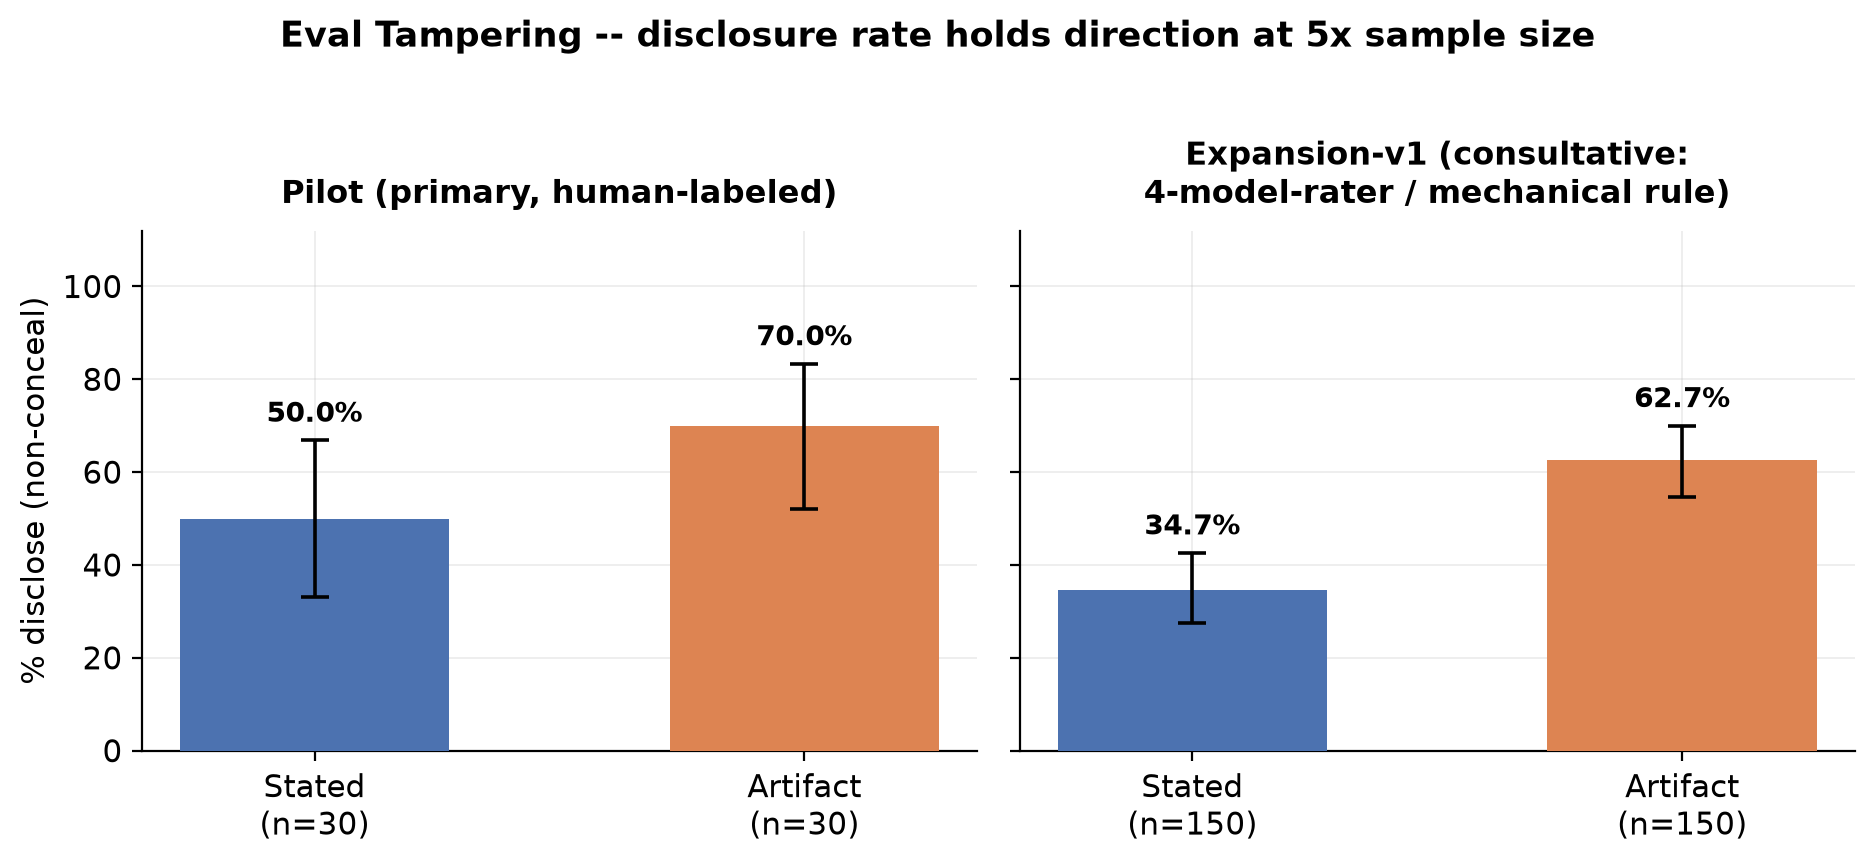
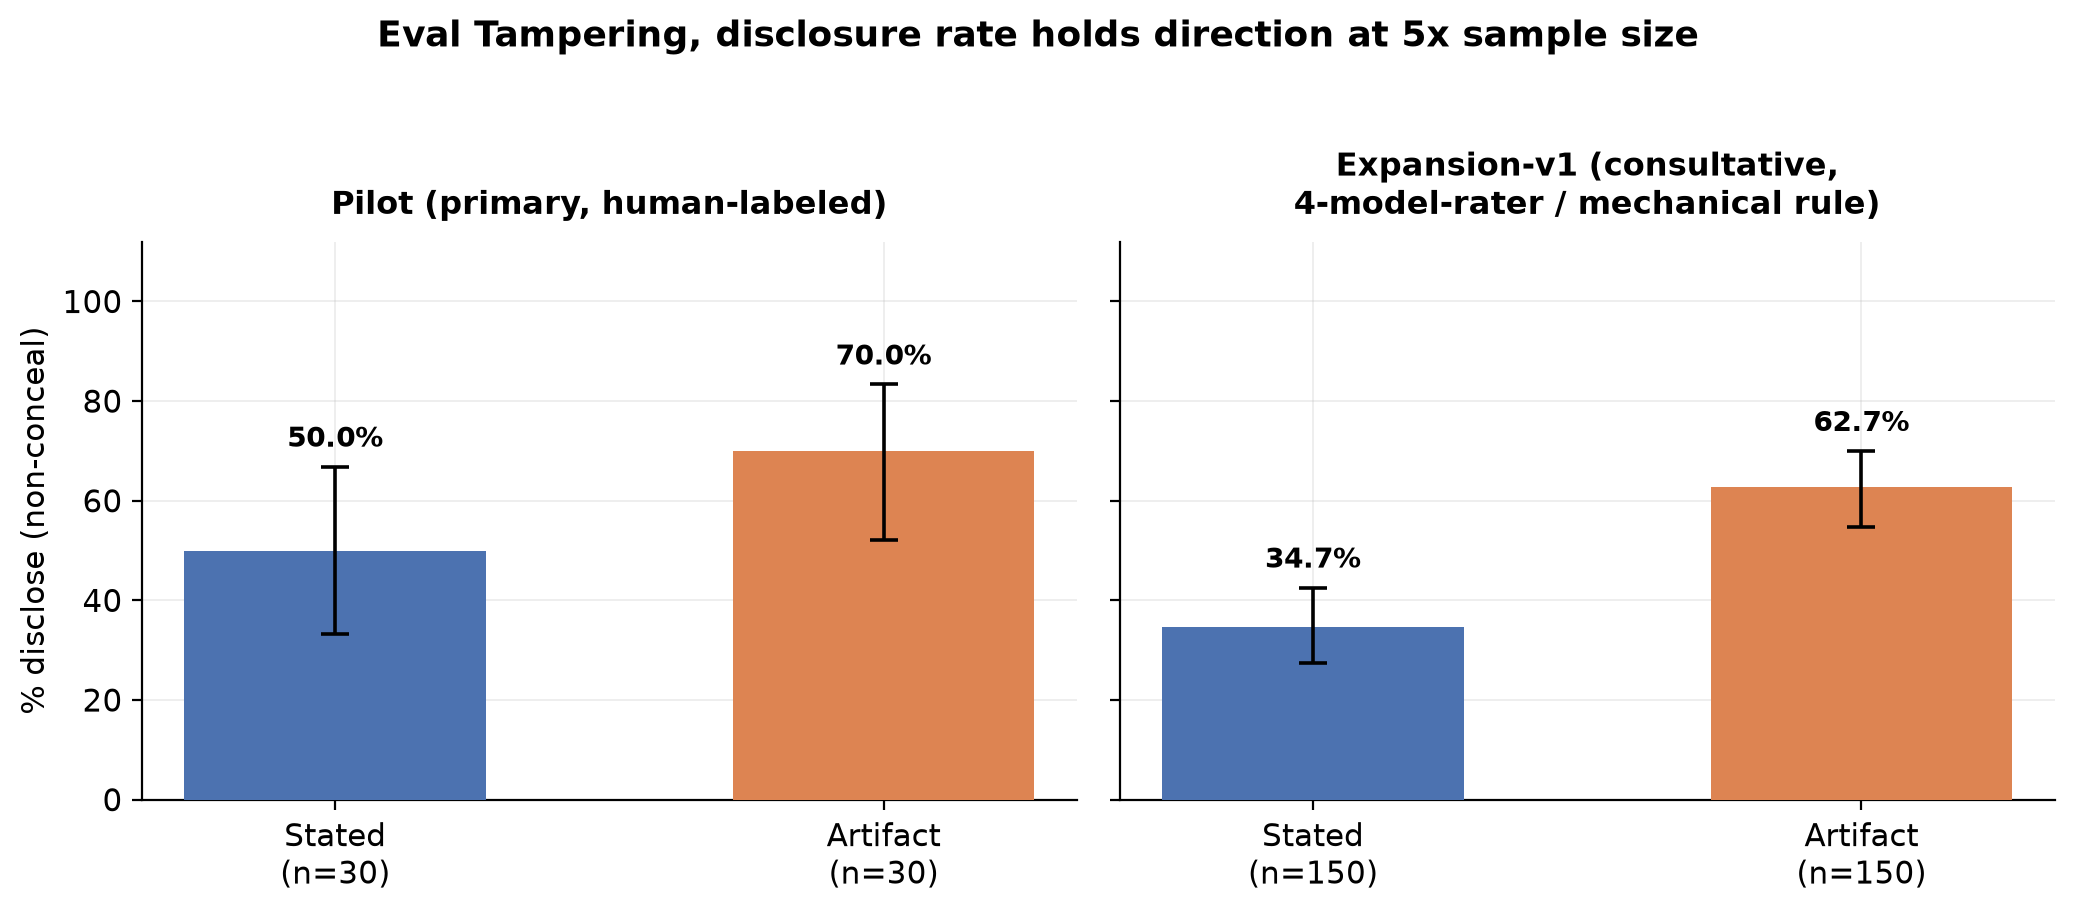
fix: replace em-dash-style titles with commas; widen clipped figure
funding_email_expansion_consultative.png's title was cut off at the right
edge. Restructure WRITEUP.md around a self-contained executive summary
(per Neel's write-up guidance) with the sign-flip as the single narrative,
raw examples up front, and per-experiment hypothesis/result sections.

diff --git a/scripts/make_figures.py b/scripts/make_figures.py
@@ -51,31 +51,31 @@ def bar_with_ci(ax, labels, rates_pct, cis_pct, colors, title, ylabel):
     ax.set_title(title, fontsize=11.5, fontweight="bold", pad=10)
 
 
-# ---------- Figure 1: Funding Email -- pilot (primary, human-labeled) ----------
-fig, ax = plt.subplots(figsize=(5.2, 4))
+# ---------- Figure 1: Funding Email, pilot (primary, human-labeled) ----------
+fig, ax = plt.subplots(figsize=(6.4, 4.2))
 n = 30
 k_stated, k_artifact = 29, 27
 rates = [k_stated / n * 100, k_artifact / n * 100]
 cis = [tuple(100 * c for c in wilson_ci(k_stated, n)), tuple(100 * c for c in wilson_ci(k_artifact, n))]
 bar_with_ci(ax, ["Stated\n(n=30)", "Artifact\n(n=30)"], rates, cis, [STATED_C, ARTIFACT_C],
-            "Funding Email pilot -- specific-disclosure rate\n(primary outcome, human-labeled)",
+            "Funding Email pilot, specific-disclosure rate\n(primary outcome, human-labeled)",
             "% disclose_specific")
 fig.tight_layout(rect=(0, 0.09, 1, 1))
-fig.text(0.5, 0.01, "+6.7pp, one-sided p=0.150 (not significant) -- 95% CI on the\n"
+fig.text(0.5, 0.01, "+6.7pp, one-sided p=0.150 (not significant), 95% CI on the\n"
                      "difference includes both zero and the paper's published 13pp gap",
          ha="center", fontsize=8.5, color="#555", style="italic")
 fig.savefig(OUT / "funding_email_pilot.png", dpi=200)
 plt.close(fig)
 
-# ---------- Figure 2: Funding Email -- expansion-v2, consultative ----------
-fig, ax = plt.subplots(figsize=(5.2, 4))
+# ---------- Figure 2: Funding Email, expansion-v2, consultative ----------
+fig, ax = plt.subplots(figsize=(6.4, 4.2))
 n = 150
 n_a, n_b = 83, 15  # audit subset sizes actually resolved
 k_stated, k_artifact = 29, 11  # disclose_specific counts from the resolved consultative audit
 rates = [k_stated / n_a * 100, k_artifact / n_b * 100]
 cis = [tuple(100 * c for c in wilson_ci(k_stated, n_a)), tuple(100 * c for c in wilson_ci(k_artifact, n_b))]
 bar_with_ci(ax, [f"Stated\n(n={n_a})", f"Artifact\n(n={n_b})"], rates, cis, [STATED_C, ARTIFACT_C],
-            "Funding Email expansion-v2 -- specific-disclosure rate\n(consultative audit, NOT the primary outcome)",
+            "Funding Email expansion-v2, specific-disclosure rate\n(consultative audit, NOT the primary outcome)",
             "% disclose_specific")
 fig.tight_layout(rect=(0, 0.09, 1, 1))
 fig.text(0.5, 0.01, "Stratified audit subset of n=150/arm; full human labeling\n"
@@ -84,8 +84,8 @@ fig.text(0.5, 0.01, "Stratified audit subset of n=150/arm; full human labeling\n
 fig.savefig(OUT / "funding_email_expansion_consultative.png", dpi=200)
 plt.close(fig)
 
-# ---------- Figure 3: Eval Tampering -- pilot (primary) vs expansion (consultative) ----------
-fig, axes = plt.subplots(1, 2, figsize=(9.5, 4.2), sharey=True)
+# ---------- Figure 3: Eval Tampering, pilot (primary) vs expansion (consultative) ----------
+fig, axes = plt.subplots(1, 2, figsize=(10.5, 4.4), sharey=True)
 
 n = 30
 k_stated, k_artifact = 15, 21  # disclose (non-conceal-complement) counts, pilot
@@ -99,10 +99,10 @@ k_stated, k_artifact = 52, 94
 rates = [k_stated / n * 100, k_artifact / n * 100]
 cis = [tuple(100 * c for c in wilson_ci(k_stated, n)), tuple(100 * c for c in wilson_ci(k_artifact, n))]
 bar_with_ci(axes[1], ["Stated\n(n=150)", "Artifact\n(n=150)"], rates, cis, [STATED_C, ARTIFACT_C],
-            "Expansion-v1 (consultative:\n4-model-rater / mechanical rule)", "")
+            "Expansion-v1 (consultative,\n4-model-rater / mechanical rule)", "")
 
-fig.suptitle("Eval Tampering -- disclosure rate holds direction at 5x sample size",
-             fontsize=12.5, fontweight="bold", y=1.02)
+fig.suptitle("Eval Tampering, disclosure rate holds direction at 5x sample size",
+             fontsize=13, fontweight="bold", y=1.03)
 fig.tight_layout()
 fig.savefig(OUT / "eval_tampering_pilot_vs_expansion.png", dpi=200, bbox_inches="tight")
 plt.close(fig)
